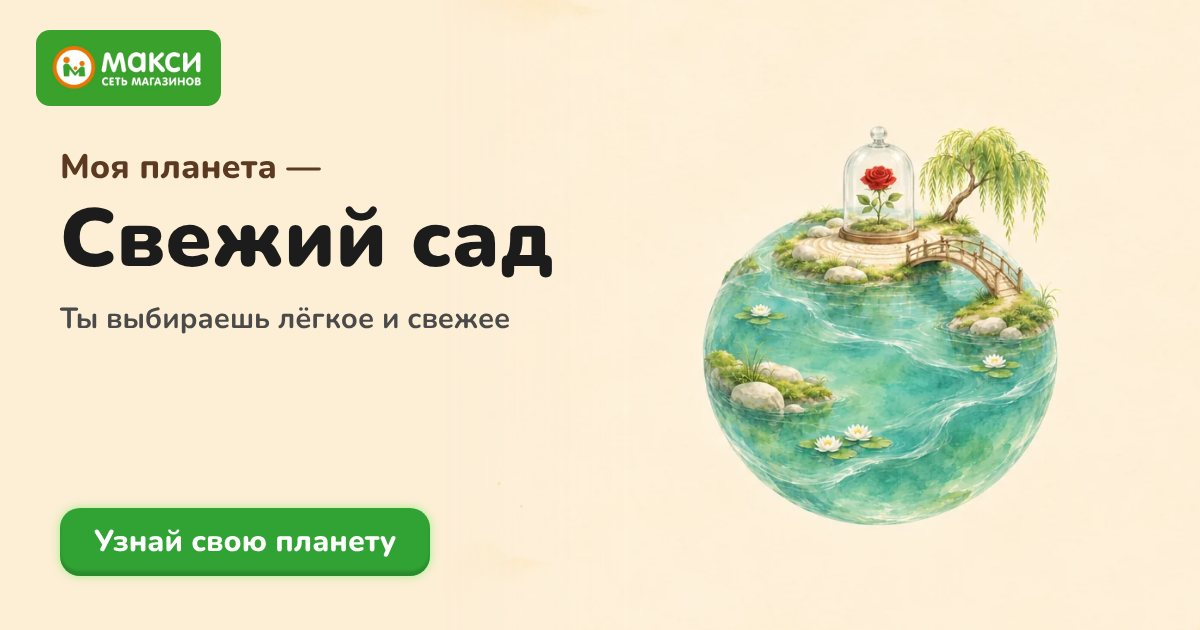
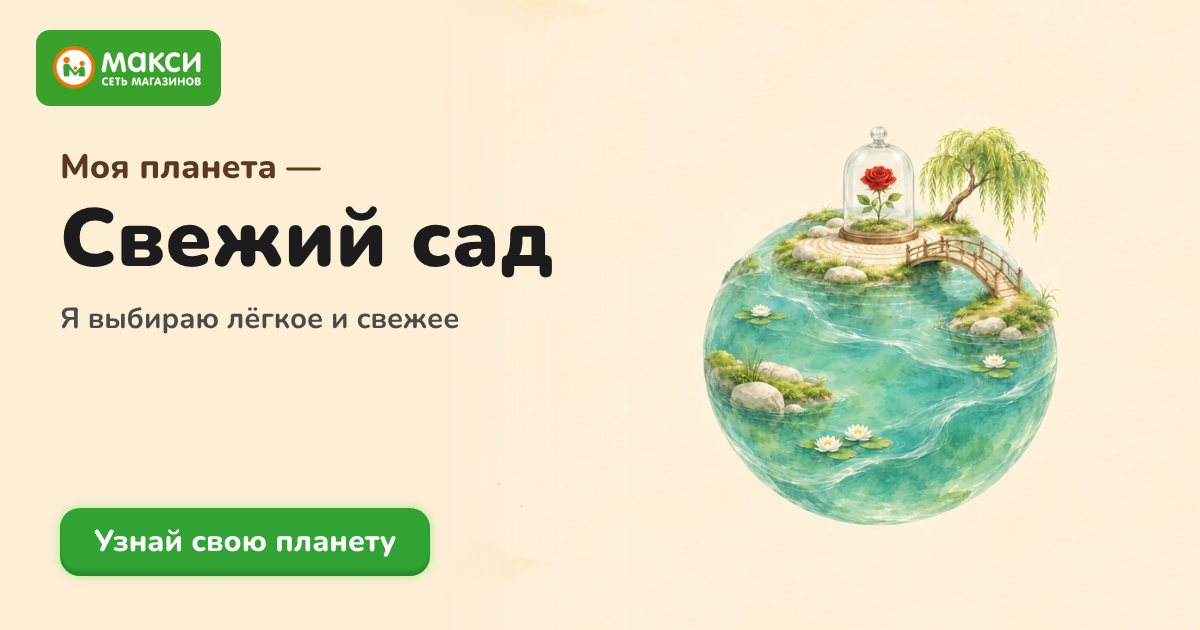
Шеринг от первого лица: «Моя планета — X» и «Я выбираю лёгкое и свежее»
Фраза о планете в карточке превью, в описании ссылки и на странице планеты теперь «Я …» вместо «Ты …».
Версия ссылки v=7 сбрасывает кэш превью в мессенджерах.

Claude-Session: https://claude.ai/code/session_01W94RYF4d5GaTopqxH15fcW

Changed region(s): [[0.0308, 0.4825, 0.4317, 0.5429]]

diff --git a/game.js b/game.js
@@ -151,6 +151,7 @@
     'Домашний очаг': {
       key: 'home',
       headline: 'Ты создаёшь тепло даже в мелочах',
+      shareHeadline: 'Я создаю тепло даже в мелочах',   // то же от первого лица: для карточки и страницы «Поделиться»
       text: 'Твой маленький мир полон заботы и любимых вкусов. Здесь пахнет домашней выпечкой, а для близких всегда найдётся место за столом.',
       art: 'assets/planet-home.webp',
       box: { cx: 513, cy: 759, h: 505 },
@@ -159,6 +160,7 @@
     'Вкусовая экспедиция': {
       key: 'expedition',
       headline: 'Тебе интересно, что за следующим поворотом',
+      shareHeadline: 'Мне интересно, что за следующим поворотом',   // то же от первого лица: для карточки и страницы «Поделиться»
       text: 'Новый вкус, необычное сочетание или незнакомое блюдо — повод отправиться в маленькое путешествие. На твоей планете каждый день может принести открытие.',
       art: 'assets/planet-expedition.webp',
       box: { cx: 509, cy: 762, h: 460 },
@@ -167,6 +169,7 @@
     'Свежий сад': {
       key: 'garden',
       headline: 'Ты выбираешь лёгкое и свежее',
+      shareHeadline: 'Я выбираю лёгкое и свежее',   // то же от первого лица: для карточки и страницы «Поделиться»
       text: 'На твоей планете растут яблони и грядки, а на столе — простые натуральные вкусы. Ты выбираешь то, что подходит именно твоему настроению.',
       art: 'assets/planet-garden.webp',
       box: { cx: 512, cy: 804, h: 462 },
@@ -175,6 +178,7 @@
     'Сладкая жизнь': {
       key: 'sweet',
       headline: 'Ты умеешь наслаждаться моментом',
+      shareHeadline: 'Я умею наслаждаться моментом',   // то же от первого лица: для карточки и страницы «Поделиться»
       text: 'На твоей планете обычный день заслуживает любимого десерта и маленького праздника. Ты находишь радость во вкусах, которые хочется попробовать снова.',
       art: 'assets/planet-sweet.webp',
       box: { cx: 510, cy: 788, h: 468 },
@@ -870,7 +874,7 @@
   /* ------------------------------ поделиться результатом ------------------------------ */
   // Делимся ссылкой на страницу планеты (p/<планета>/): у неё свои метатеги, поэтому мессенджер сам показывает карточку
   // с картинкой планеты, заголовком «Моя планета — …» и описанием. Страницы и картинки делает build_share.py / make_cards.py.
-  const SHARE = { text: 'Узнай свою планету в игре Макси', utm: 'utm_source=share&utm_medium=quiz&v=6' };   // v — версия ссылки: сбрасывает кэш превью в Telegram/VK, если оно уже закэшировалось без картинки
+  const SHARE = { text: 'Узнай свою планету в игре Макси', utm: 'utm_source=share&utm_medium=quiz&v=7' };   // v — версия ссылки: сбрасывает кэш превью в Telegram/VK, если оно уже закэшировалось без картинки
   const shareLabel = $('#btn-share-label');
   let shareTimer = 0;
 

diff --git a/p/expedition/index.html b/p/expedition/index.html
@@ -4,12 +4,12 @@
 <meta charset="utf-8">
 <title>Моя планета — Вкусовая экспедиция</title>
 <!-- og:begin -->
-<meta name="description" content="Тебе интересно, что за следующим поворотом. Узнай свою планету в игре Макси">
+<meta name="description" content="Мне интересно, что за следующим поворотом">
 <meta property="og:type" content="website">
 <meta property="og:site_name" content="Макси">
 <meta property="og:locale" content="ru_RU">
 <meta property="og:title" content="Моя планета — Вкусовая экспедиция">
-<meta property="og:description" content="Тебе интересно, что за следующим поворотом. Узнай свою планету в игре Макси">
+<meta property="og:description" content="Мне интересно, что за следующим поворотом">
 <meta property="og:url" content="https://maxi-planet-game.vercel.app/p/expedition/">
 <meta property="og:image" content="https://maxi-planet-game.vercel.app/assets/share-expedition.jpg">
 <meta property="og:image:width" content="1200">
@@ -75,7 +75,7 @@ _tmr.push({id: "3814173", type: "pageView", start: (new Date()).getTime()});
   <p class="kicker">Моя планета</p>
   <h1 class="name">Вкусовая экспедиция</h1>
   <figure class="art"><img src="../../assets/planet-expedition-card.webp" alt="Фиолетовая планета с кристаллами, лестницами и подзорной трубой, на вершине роза под стеклянным колпаком" width="720" height="720"></figure>
-  <p class="headline">Тебе интересно, что за следующим поворотом</p>
+  <p class="headline">Мне интересно, что за следующим поворотом</p>
   <section class="cta" aria-labelledby="cta-title">
     <h2 id="cta-title">А какая планета у тебя?</h2>
     <p>Выбирай любимые продукты и получи промокод от Макси</p>

diff --git a/p/home/index.html b/p/home/index.html
@@ -4,12 +4,12 @@
 <meta charset="utf-8">
 <title>Моя планета — Домашний очаг</title>
 <!-- og:begin -->
-<meta name="description" content="Ты создаёшь тепло даже в мелочах. Узнай свою планету в игре Макси">
+<meta name="description" content="Я создаю тепло даже в мелочах">
 <meta property="og:type" content="website">
 <meta property="og:site_name" content="Макси">
 <meta property="og:locale" content="ru_RU">
 <meta property="og:title" content="Моя планета — Домашний очаг">
-<meta property="og:description" content="Ты создаёшь тепло даже в мелочах. Узнай свою планету в игре Макси">
+<meta property="og:description" content="Я создаю тепло даже в мелочах">
 <meta property="og:url" content="https://maxi-planet-game.vercel.app/p/home/">
 <meta property="og:image" content="https://maxi-planet-game.vercel.app/assets/share-home.jpg">
 <meta property="og:image:width" content="1200">
@@ -75,7 +75,7 @@ _tmr.push({id: "3814173", type: "pageView", start: (new Date()).getTime()});
   <p class="kicker">Моя планета</p>
   <h1 class="name">Домашний очаг</h1>
   <figure class="art"><img src="../../assets/planet-home-card.webp" alt="Планета с уютным домом: в окне тёплый свет, над трубой дымок, осеннее дерево и плед для пикника, а на вершине роза под стеклянным колпаком" width="720" height="720"></figure>
-  <p class="headline">Ты создаёшь тепло даже в мелочах</p>
+  <p class="headline">Я создаю тепло даже в мелочах</p>
   <section class="cta" aria-labelledby="cta-title">
     <h2 id="cta-title">А какая планета у тебя?</h2>
     <p>Выбирай любимые продукты и получи промокод от Макси</p>

diff --git a/p/sweet/index.html b/p/sweet/index.html
@@ -4,12 +4,12 @@
 <meta charset="utf-8">
 <title>Моя планета — Сладкая жизнь</title>
 <!-- og:begin -->
-<meta name="description" content="Ты умеешь наслаждаться моментом. Узнай свою планету в игре Макси">
+<meta name="description" content="Я умею наслаждаться моментом">
 <meta property="og:type" content="website">
 <meta property="og:site_name" content="Макси">
 <meta property="og:locale" content="ru_RU">
 <meta property="og:title" content="Моя планета — Сладкая жизнь">
-<meta property="og:description" content="Ты умеешь наслаждаться моментом. Узнай свою планету в игре Макси">
+<meta property="og:description" content="Я умею наслаждаться моментом">
 <meta property="og:url" content="https://maxi-planet-game.vercel.app/p/sweet/">
 <meta property="og:image" content="https://maxi-planet-game.vercel.app/assets/share-sweet.jpg">
 <meta property="og:image:width" content="1200">
@@ -75,7 +75,7 @@ _tmr.push({id: "3814173", type: "pageView", start: (new Date()).getTime()});
   <p class="kicker">Моя планета</p>
   <h1 class="name">Сладкая жизнь</h1>
   <figure class="art"><img src="../../assets/planet-sweet-card.webp" alt="Клубничная планета с тортиками и чаем на кружевной скатерти, на вершине роза под стеклянным колпаком" width="720" height="720"></figure>
-  <p class="headline">Ты умеешь наслаждаться моментом</p>
+  <p class="headline">Я умею наслаждаться моментом</p>
   <section class="cta" aria-labelledby="cta-title">
     <h2 id="cta-title">А какая планета у тебя?</h2>
     <p>Выбирай любимые продукты и получи промокод от Макси</p>

diff --git a/p/garden/index.html b/p/garden/index.html
@@ -4,12 +4,12 @@
 <meta charset="utf-8">
 <title>Моя планета — Свежий сад</title>
 <!-- og:begin -->
-<meta name="description" content="Ты выбираешь лёгкое и свежее. Узнай свою планету в игре Макси">
+<meta name="description" content="Я выбираю лёгкое и свежее">
 <meta property="og:type" content="website">
 <meta property="og:site_name" content="Макси">
 <meta property="og:locale" content="ru_RU">
 <meta property="og:title" content="Моя планета — Свежий сад">
-<meta property="og:description" content="Ты выбираешь лёгкое и свежее. Узнай свою планету в игре Макси">
+<meta property="og:description" content="Я выбираю лёгкое и свежее">
 <meta property="og:url" content="https://maxi-planet-game.vercel.app/p/garden/">
 <meta property="og:image" content="https://maxi-planet-game.vercel.app/assets/share-garden.jpg">
 <meta property="og:image:width" content="1200">
@@ -75,7 +75,7 @@ _tmr.push({id: "3814173", type: "pageView", start: (new Date()).getTime()});
   <p class="kicker">Моя планета</p>
   <h1 class="name">Свежий сад</h1>
   <figure class="art"><img src="../../assets/planet-garden-card.webp" alt="Бирюзовая планета с водой и кувшинками, мостиком и ивой, на вершине роза под стеклянным колпаком" width="720" height="720"></figure>
-  <p class="headline">Ты выбираешь лёгкое и свежее</p>
+  <p class="headline">Я выбираю лёгкое и свежее</p>
   <section class="cta" aria-labelledby="cta-title">
     <h2 id="cta-title">А какая планета у тебя?</h2>
     <p>Выбирай любимые продукты и получи промокод от Макси</p>
